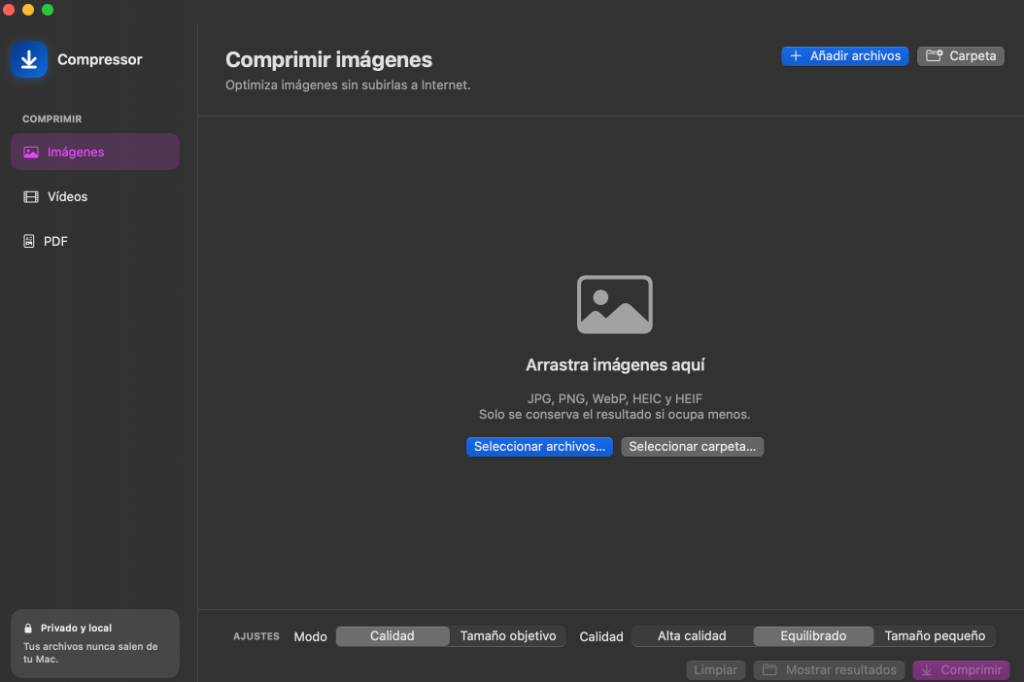
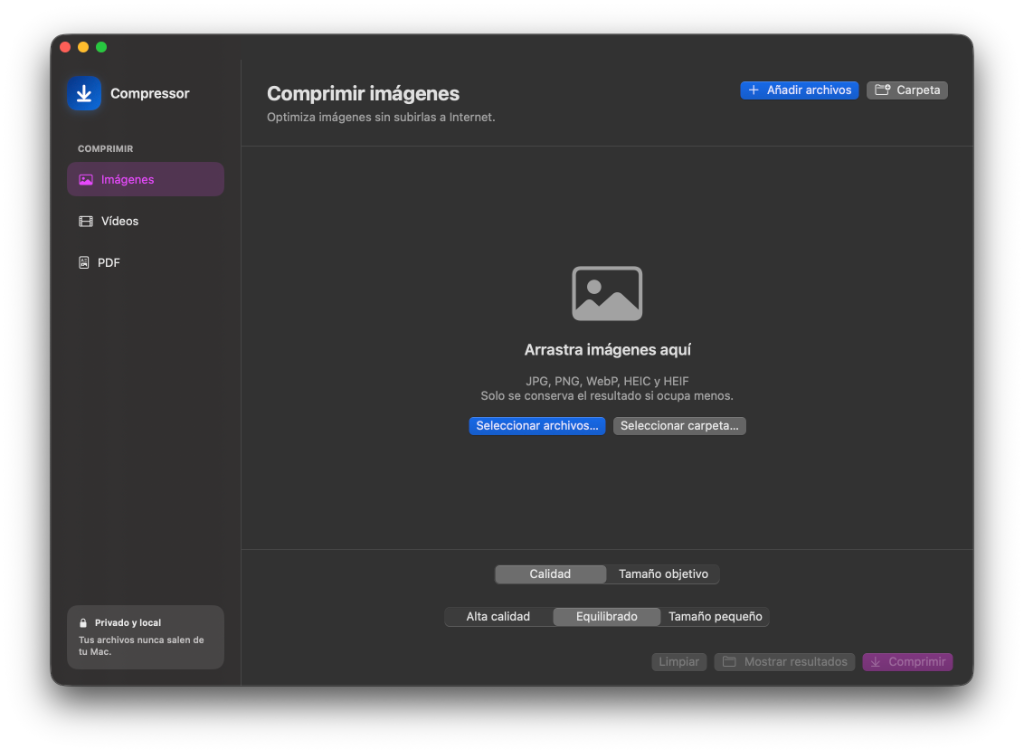
Update main hero screenshot with authentic macOS window capture and refined layout

Changed region(s): [[0.0, 0.0, 1.0, 1.0], [0.4375, 0.3387, 0.75, 0.6774], [0.4375, 0.739, 0.75, 0.8314]]

diff --git a/docs/index.html b/docs/index.html
@@ -282,52 +282,18 @@
     /* App Showcase Frame */
     .mockup-wrapper {
       position: relative;
-      margin: 0 auto;
-      max-width: 1024px;
-      perspective: 1000px;
-    }
-    .mockup-frame {
-      background: #1e1e24;
-      border-radius: 18px;
-      overflow: hidden;
-      border: 1px solid rgba(255, 255, 255, 0.12);
-      box-shadow: 0 30px 100px -20px rgba(0, 0, 0, 0.8), 0 0 40px -10px var(--accent-glow);
+      margin: 20px auto 0;
+      max-width: 980px;
       transition: transform 0.4s cubic-bezier(0.16, 1, 0.3, 1);
     }
-    .mockup-frame:hover {
+    .mockup-wrapper:hover {
       transform: translateY(-4px);
     }
-    .mockup-header {
-      background: #16161c;
-      padding: 14px 18px;
-      display: flex;
-      align-items: center;
-      border-bottom: 1px solid rgba(255, 255, 255, 0.06);
-    }
-    .window-controls {
-      display: flex;
-      gap: 8px;
-    }
-    .dot {
-      width: 12px;
-      height: 12px;
-      border-radius: 50%;
-    }
-    .dot-red { background: #ff5f56; }
-    .dot-yellow { background: #ffbd2e; }
-    .dot-green { background: #27c93f; }
-    .window-title {
-      flex: 1;
-      text-align: center;
-      font-size: 0.85rem;
-      color: #94a3b8;
-      font-weight: 500;
-      margin-right: 60px;
-    }
-    .mockup-frame img {
+    .mockup-img {
       width: 100%;
       height: auto;
       display: block;
+      filter: drop-shadow(0 25px 60px rgba(0, 0, 0, 0.75)) drop-shadow(0 0 35px var(--accent-glow));
     }
 
     /* Highlights Bar */
@@ -983,17 +949,7 @@
 
       <!-- Mockup Window -->
       <div class="mockup-wrapper">
-        <div class="mockup-frame">
-          <div class="mockup-header">
-            <div class="window-controls">
-              <span class="dot dot-red"></span>
-              <span class="dot dot-yellow"></span>
-              <span class="dot dot-green"></span>
-            </div>
-            <div class="window-title">Compressor — macOS</div>
-          </div>
-          <img src="assets/app_screenshot.png" alt="Compressor Interface en macOS">
-        </div>
+        <img src="assets/app_screenshot.png" alt="Compressor Interface en macOS" class="mockup-img">
       </div>
     </div>
   </header>

diff --git a/index.html b/index.html
@@ -282,52 +282,18 @@
     /* App Showcase Frame */
     .mockup-wrapper {
       position: relative;
-      margin: 0 auto;
-      max-width: 1024px;
-      perspective: 1000px;
-    }
-    .mockup-frame {
-      background: #1e1e24;
-      border-radius: 18px;
-      overflow: hidden;
-      border: 1px solid rgba(255, 255, 255, 0.12);
-      box-shadow: 0 30px 100px -20px rgba(0, 0, 0, 0.8), 0 0 40px -10px var(--accent-glow);
+      margin: 20px auto 0;
+      max-width: 980px;
       transition: transform 0.4s cubic-bezier(0.16, 1, 0.3, 1);
     }
-    .mockup-frame:hover {
+    .mockup-wrapper:hover {
       transform: translateY(-4px);
     }
-    .mockup-header {
-      background: #16161c;
-      padding: 14px 18px;
-      display: flex;
-      align-items: center;
-      border-bottom: 1px solid rgba(255, 255, 255, 0.06);
-    }
-    .window-controls {
-      display: flex;
-      gap: 8px;
-    }
-    .dot {
-      width: 12px;
-      height: 12px;
-      border-radius: 50%;
-    }
-    .dot-red { background: #ff5f56; }
-    .dot-yellow { background: #ffbd2e; }
-    .dot-green { background: #27c93f; }
-    .window-title {
-      flex: 1;
-      text-align: center;
-      font-size: 0.85rem;
-      color: #94a3b8;
-      font-weight: 500;
-      margin-right: 60px;
-    }
-    .mockup-frame img {
+    .mockup-img {
       width: 100%;
       height: auto;
       display: block;
+      filter: drop-shadow(0 25px 60px rgba(0, 0, 0, 0.75)) drop-shadow(0 0 35px var(--accent-glow));
     }
 
     /* Highlights Bar */
@@ -983,17 +949,7 @@
 
       <!-- Mockup Window -->
       <div class="mockup-wrapper">
-        <div class="mockup-frame">
-          <div class="mockup-header">
-            <div class="window-controls">
-              <span class="dot dot-red"></span>
-              <span class="dot dot-yellow"></span>
-              <span class="dot dot-green"></span>
-            </div>
-            <div class="window-title">Compressor — macOS</div>
-          </div>
-          <img src="assets/app_screenshot.png" alt="Compressor Interface en macOS">
-        </div>
+        <img src="assets/app_screenshot.png" alt="Compressor Interface en macOS" class="mockup-img">
       </div>
     </div>
   </header>

diff --git a/README.md b/README.md
@@ -24,7 +24,7 @@
 
   <br /><br />
 
-  <img src="docs/assets/app_screenshot.png" width="920" alt="Compressor en macOS" style="border-radius: 14px; box-shadow: 0 20px 50px rgba(0,0,0,0.5);" />
+  <img src="docs/assets/app_screenshot.png" width="920" alt="Compressor en macOS" />
 
 </div>
 
